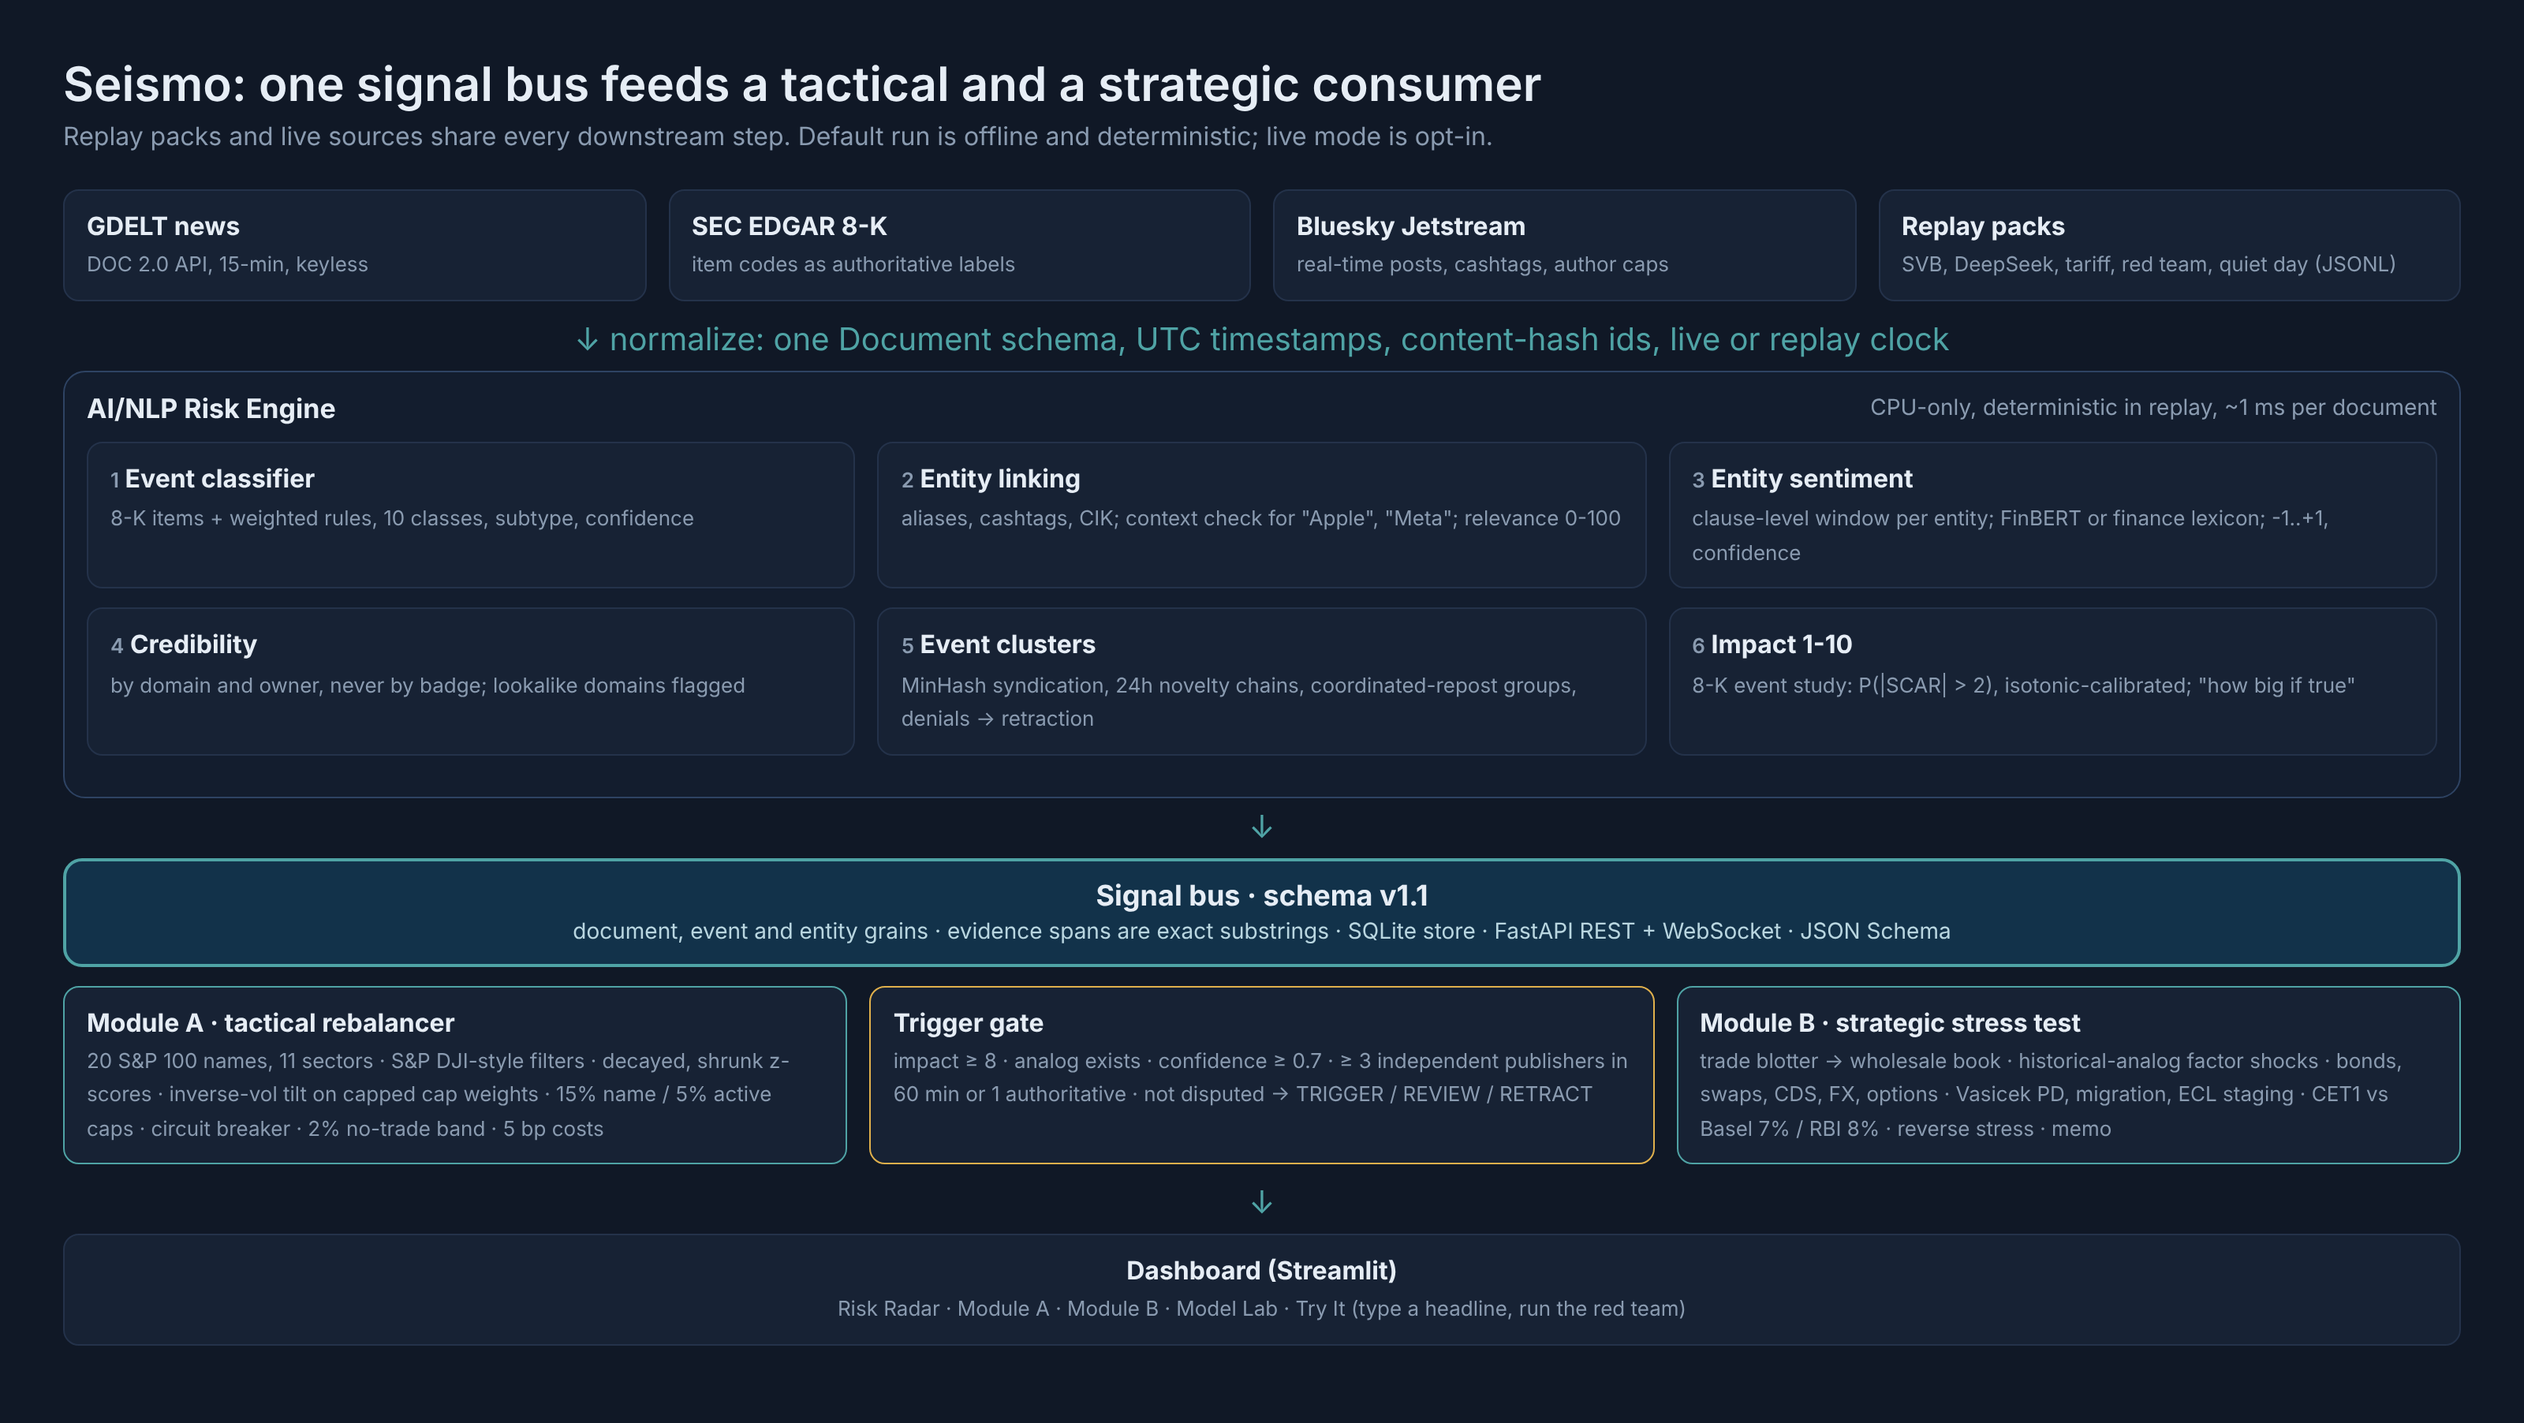
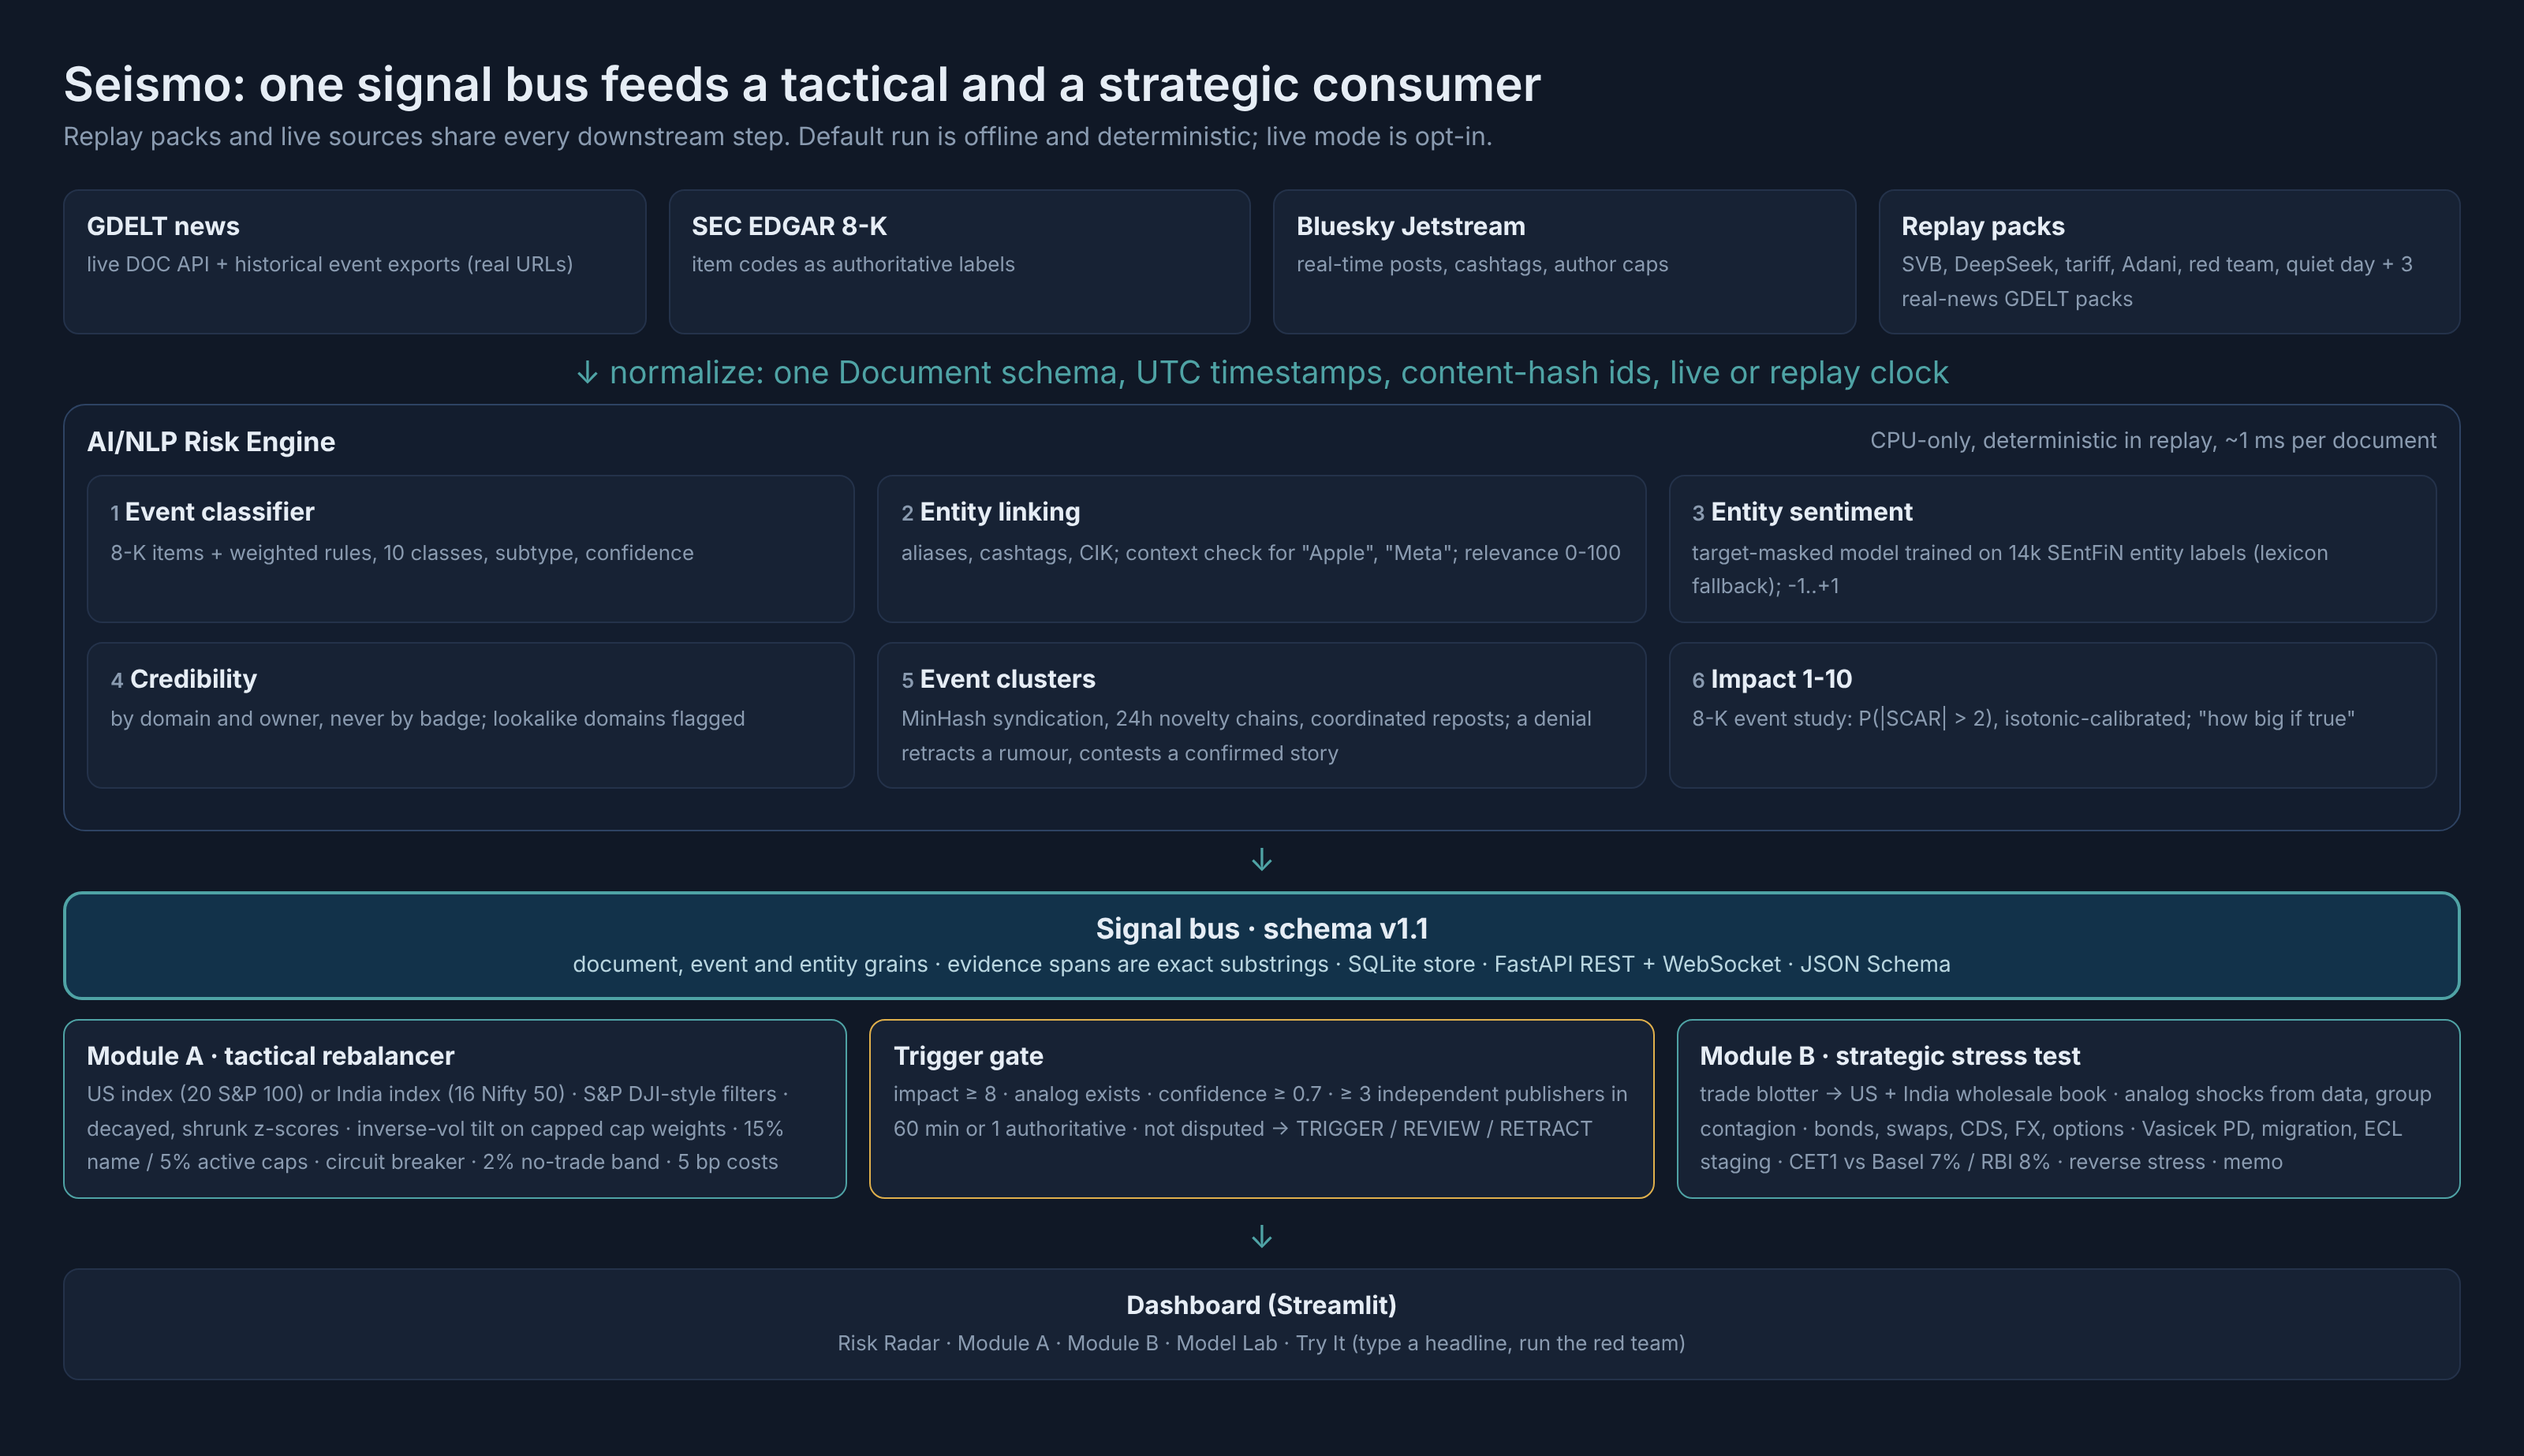
docs: manifest entries for new data, architecture diagram, Model Lab tables for SEntFiN and real news
Claude-Session: https://claude.ai/code/session_01VrPz1LG4mtA545VKJqXxte

diff --git a/docs/src/architecture.html b/docs/src/architecture.html
@@ -16,28 +16,28 @@ h1{font-size:30px;margin:0 0 4px;font-weight:600}.sub{color:#8A9BB0;margin:0 0 2
 <h1>Seismo: one signal bus feeds a tactical and a strategic consumer</h1>
 <p class="sub">Replay packs and live sources share every downstream step. Default run is offline and deterministic; live mode is opt-in.</p>
 <div class="row">
-<div class="box"><b>GDELT news</b><span>DOC 2.0 API, 15-min, keyless</span></div>
+<div class="box"><b>GDELT news</b><span>live DOC API + historical event exports (real URLs)</span></div>
 <div class="box"><b>SEC EDGAR 8-K</b><span>item codes as authoritative labels</span></div>
 <div class="box"><b>Bluesky Jetstream</b><span>real-time posts, cashtags, author caps</span></div>
-<div class="box"><b>Replay packs</b><span>SVB, DeepSeek, tariff, red team, quiet day (JSONL)</span></div>
+<div class="box"><b>Replay packs</b><span>SVB, DeepSeek, tariff, Adani, red team, quiet day + 3 real-news GDELT packs</span></div>
 </div>
 <div class="arrow">&#8595; normalize: one Document schema, UTC timestamps, content-hash ids, live or replay clock</div>
 <div class="engine"><div class="title"><b>AI/NLP Risk Engine</b><span>CPU-only, deterministic in replay, ~1 ms per document</span></div>
 <div class="row">
 <div class="box"><b><span class="num">1</span> Event classifier</b><span>8-K items + weighted rules, 10 classes, subtype, confidence</span></div>
 <div class="box"><b><span class="num">2</span> Entity linking</b><span>aliases, cashtags, CIK; context check for "Apple", "Meta"; relevance 0-100</span></div>
-<div class="box"><b><span class="num">3</span> Entity sentiment</b><span>clause-level window per entity; FinBERT or finance lexicon; -1..+1, confidence</span></div>
+<div class="box"><b><span class="num">3</span> Entity sentiment</b><span>target-masked model trained on 14k SEntFiN entity labels (lexicon fallback); -1..+1</span></div>
 </div><div class="row">
 <div class="box"><b><span class="num">4</span> Credibility</b><span>by domain and owner, never by badge; lookalike domains flagged</span></div>
-<div class="box"><b><span class="num">5</span> Event clusters</b><span>MinHash syndication, 24h novelty chains, coordinated-repost groups, denials &rarr; retraction</span></div>
+<div class="box"><b><span class="num">5</span> Event clusters</b><span>MinHash syndication, 24h novelty chains, coordinated reposts; a denial retracts a rumour, contests a confirmed story</span></div>
 <div class="box"><b><span class="num">6</span> Impact 1-10</b><span>8-K event study: P(|SCAR| &gt; 2), isotonic-calibrated; "how big if true"</span></div>
 </div></div>
 <div class="arrow">&#8595;</div>
 <div class="bus"><b>Signal bus &middot; schema v1.1</b><br><span>document, event and entity grains &middot; evidence spans are exact substrings &middot; SQLite store &middot; FastAPI REST + WebSocket &middot; JSON Schema</span></div>
 <div class="row" style="margin-top:12px">
-<div class="box mod"><b>Module A &middot; tactical rebalancer</b><span>20 S&amp;P 100 names, 11 sectors &middot; S&amp;P DJI-style filters &middot; decayed, shrunk z-scores &middot; inverse-vol tilt on capped cap weights &middot; 15% name / 5% active caps &middot; circuit breaker &middot; 2% no-trade band &middot; 5 bp costs</span></div>
+<div class="box mod"><b>Module A &middot; tactical rebalancer</b><span>US index (20 S&amp;P 100) or India index (16 Nifty 50) &middot; S&amp;P DJI-style filters &middot; decayed, shrunk z-scores &middot; inverse-vol tilt on capped cap weights &middot; 15% name / 5% active caps &middot; circuit breaker &middot; 2% no-trade band &middot; 5 bp costs</span></div>
 <div class="box gate"><b>Trigger gate</b><span>impact &ge; 8 &middot; analog exists &middot; confidence &ge; 0.7 &middot; &ge; 3 independent publishers in 60 min or 1 authoritative &middot; not disputed &rarr; TRIGGER / REVIEW / RETRACT</span></div>
-<div class="box mod"><b>Module B &middot; strategic stress test</b><span>trade blotter &rarr; wholesale book &middot; historical-analog factor shocks &middot; bonds, swaps, CDS, FX, options &middot; Vasicek PD, migration, ECL staging &middot; CET1 vs Basel 7% / RBI 8% &middot; reverse stress &middot; memo</span></div>
+<div class="box mod"><b>Module B &middot; strategic stress test</b><span>trade blotter &rarr; US + India wholesale book &middot; analog shocks from data, group contagion &middot; bonds, swaps, CDS, FX, options &middot; Vasicek PD, migration, ECL staging &middot; CET1 vs Basel 7% / RBI 8% &middot; reverse stress &middot; memo</span></div>
 </div>
 <div class="arrow">&#8595;</div>
 <div class="row"><div class="box" style="text-align:center"><b>Dashboard (Streamlit)</b><span>Risk Radar &middot; Module A &middot; Module B &middot; Model Lab &middot; Try It (type a headline, run the red team)</span></div></div>

diff --git a/src/seismo/eval/manifest.py b/src/seismo/eval/manifest.py
@@ -13,10 +13,18 @@ from seismo.config import load_settings
 
 META = {
     "universe.csv": ("SEC company_tickers.json (CIKs); aliases and domains by the author", "Public / MIT", False),
+    "universe_in.csv": ("16 Nifty 50 names; NSE symbols; aliases and domains by the author", "Public / MIT", False),
     "watchlist.csv": ("Author; Harbor National Bank is fictional", "MIT", True),
     "replay/svb_2023.jsonl": ("Author: paraphrased reconstruction of public reporting", "MIT", True),
     "replay/deepseek_2025.jsonl": ("Author: paraphrased reconstruction of public reporting", "MIT", True),
     "replay/tariff_2025.jsonl": ("Author: paraphrased reconstruction of public reporting", "MIT", True),
+    "replay/adani_2023.jsonl": ("Author: paraphrased reconstruction of public reporting", "MIT", True),
+    "replay/svb_2023_gdelt.jsonl": ("GDELT 2.0 event exports: real URLs, publishers, timestamps; headline from URL slug", "GDELT: free, cite GDELT", False),
+    "replay/adani_2023_gdelt.jsonl": ("GDELT 2.0 event exports: real URLs, publishers, timestamps; headline from URL slug", "GDELT: free, cite GDELT", False),
+    "replay/control_2024_gdelt.jsonl": ("GDELT 2.0 event exports: real URLs, publishers, timestamps; headline from URL slug", "GDELT: free, cite GDELT", False),
+    "gdelt/svb_2023.csv": ("GDELT 2.0 event exports (scripts/fetch_data.py --only gdelt)", "GDELT: free, cite GDELT", False),
+    "gdelt/adani_2023.csv": ("GDELT 2.0 event exports (scripts/fetch_data.py --only gdelt)", "GDELT: free, cite GDELT", False),
+    "gdelt/control_2024.csv": ("GDELT 2.0 event exports (scripts/fetch_data.py --only gdelt)", "GDELT: free, cite GDELT", False),
     "replay/red_team.jsonl": ("Author: fictional red-team scenario", "MIT", True),
     "replay/quiet_day.jsonl": ("Author: fictional control session", "MIT", True),
     "replay/demo_synthetic.jsonl": ("Author: fictional smoke-test pack", "MIT", True),
@@ -25,12 +33,17 @@ META = {
     "blotter/obligors.csv": ("python -m seismo blotter (seed 2026); internal ratings synthetic", "MIT", True),
     "market/prices_daily.csv": ("Yahoo Finance via yfinance (scripts/fetch_data.py)", "Yahoo terms; research use", False),
     "market/prices_open.csv": ("Yahoo Finance via yfinance (scripts/fetch_data.py)", "Yahoo terms; research use", False),
-    "market/caps.csv": ("Yahoo Finance via yfinance (scripts/fetch_data.py)", "Yahoo terms; research use", False),
+    "market/caps.csv": ("SEC shares outstanding x last Yahoo close (scripts/fetch_data.py)", "Public / Yahoo terms; research use", False),
+    "market/shares_in.csv": ("Yahoo Finance via yfinance: NSE shares outstanding (scripts/fetch_data.py)", "Yahoo terms; research use", False),
     "market/fred_daily.csv": ("FRED, Federal Reserve Bank of St. Louis (scripts/fetch_data.py)", "Public; cite FRED", False),
     "market/edgar_8k.csv": ("SEC EDGAR submissions API (scripts/fetch_data.py)", "US government public data", False),
     "market/analog_shocks.csv": ("Computed by `make shocks` from prices and FRED", "MIT", False),
     "market/impact_events.csv": ("Computed by `make impact` (8-K event study)", "MIT", False),
 }
+
+
+SENTFIN = ("SEntFiN 1.0 (Sinha et al., 2023, JASIST), Kaggle: ankurzing/aspect-based-sentiment-analysis-for-financial-news",
+           "As published on Kaggle; research use with citation", False)
 
 
 def main() -> int:
@@ -40,7 +53,10 @@ def main() -> int:
         rel = path.relative_to(root).as_posix()
         if rel.startswith("cache/") or rel.endswith(".db"):
             continue
-        source, licence, synthetic = META.get(rel, ("see data/README", "MIT", True))
+        if rel.startswith("sentfin/"):
+            source, licence, synthetic = SENTFIN
+        else:
+            source, licence, synthetic = META.get(rel, ("see data/README", "MIT", True))
         raw = path.read_bytes()
         rows = sum(1 for line in raw.decode("utf-8", "replace").splitlines() if line.strip() and not line.startswith("#"))
         entries.append({"path": f"data/{rel}", "source": source, "licence": licence, "synthetic": synthetic,

diff --git a/src/seismo/ui/views/model_lab.py b/src/seismo/ui/views/model_lab.py
@@ -30,8 +30,19 @@ def render() -> None:
     sc = pd.DataFrame(res["scorecard"])
     st.dataframe(sc, hide_index=True, width="stretch")
 
+    if res.get("real_news"):
+        st.markdown("### Real news (GDELT): real article URLs, publishers and timestamps")
+        st.dataframe(pd.DataFrame(res["real_news"]), hide_index=True, width="stretch")
+        st.caption("Headlines rebuilt from URL slugs; timestamps are GDELT's 15-minute ingestion slots.")
+
     st.markdown("### Corroboration and dedup: reports vs independent voices")
     st.dataframe(pd.DataFrame(res["dedup"]), hide_index=True, width="stretch")
+
+    sb = res.get("sentiment_benchmark")
+    if sb:
+        st.markdown("### Target sentiment on real labelled headlines (SEntFiN 1.0, held-out test)")
+        st.dataframe(pd.DataFrame(sb["table"]), hide_index=True, width="stretch")
+        st.caption(sb["note"])
     st.markdown("### Gold set: entity linking, target sentiment, event class")
     gold = res.get("gold")
     if gold:
